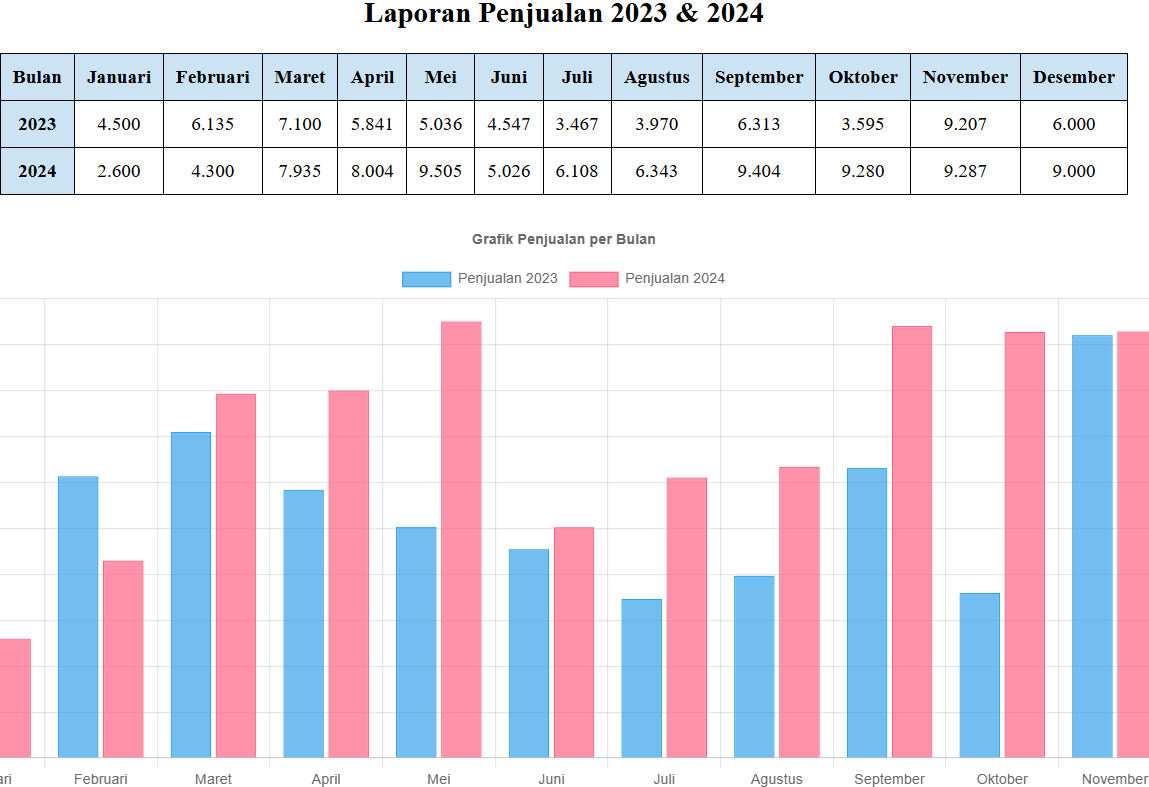
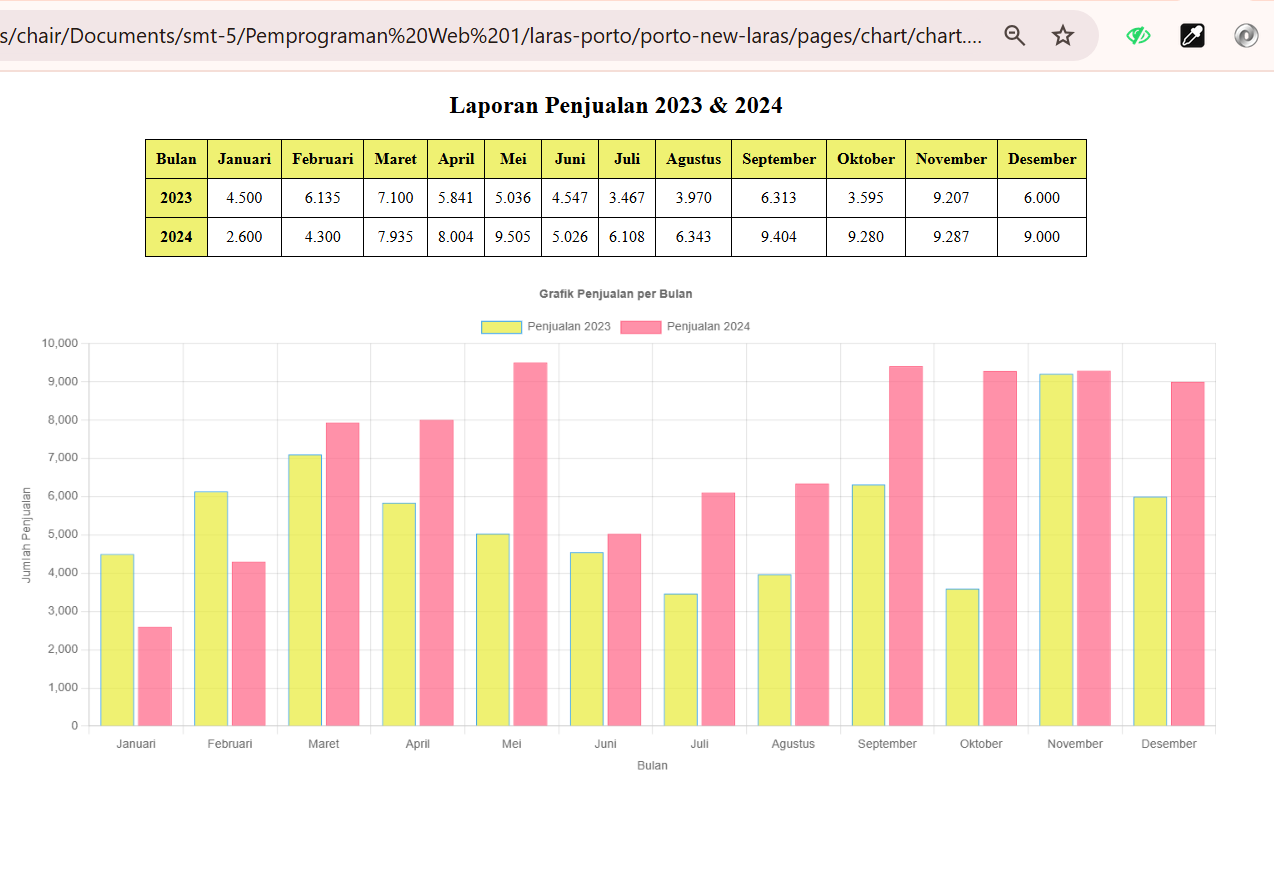
ubah warna

diff --git a/pages/chart/chart.html b/pages/chart/chart.html
@@ -22,7 +22,7 @@
         }
 
         th {
-            background-color: #cbe3f3;
+            background-color: rgba(232, 235, 54, 0.7);
         }
 
         h2 {
@@ -125,7 +125,7 @@
                     {
                         label: 'Penjualan 2023',
                         data: data2023,
-                        backgroundColor: 'rgba(54, 162, 235, 0.7)',
+                        backgroundColor: 'rgba(232, 235, 54, 0.7)',
                         borderColor: 'rgba(54, 162, 235, 1)',
                         borderWidth: 1
                     },
